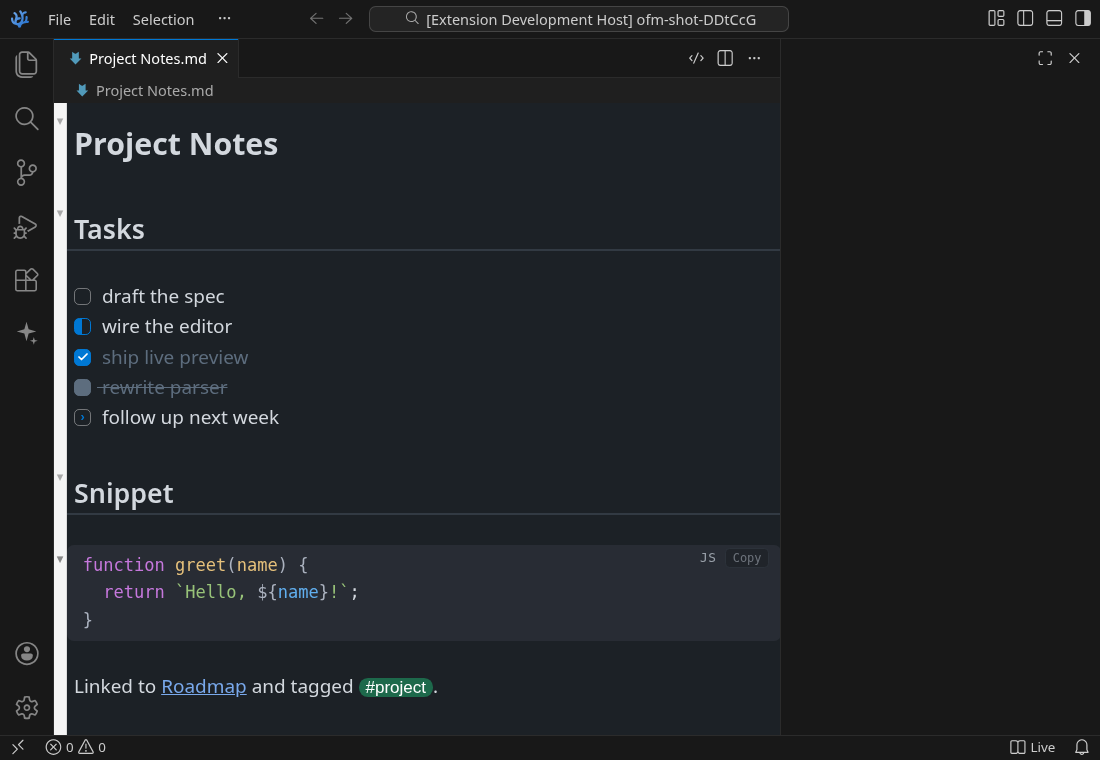
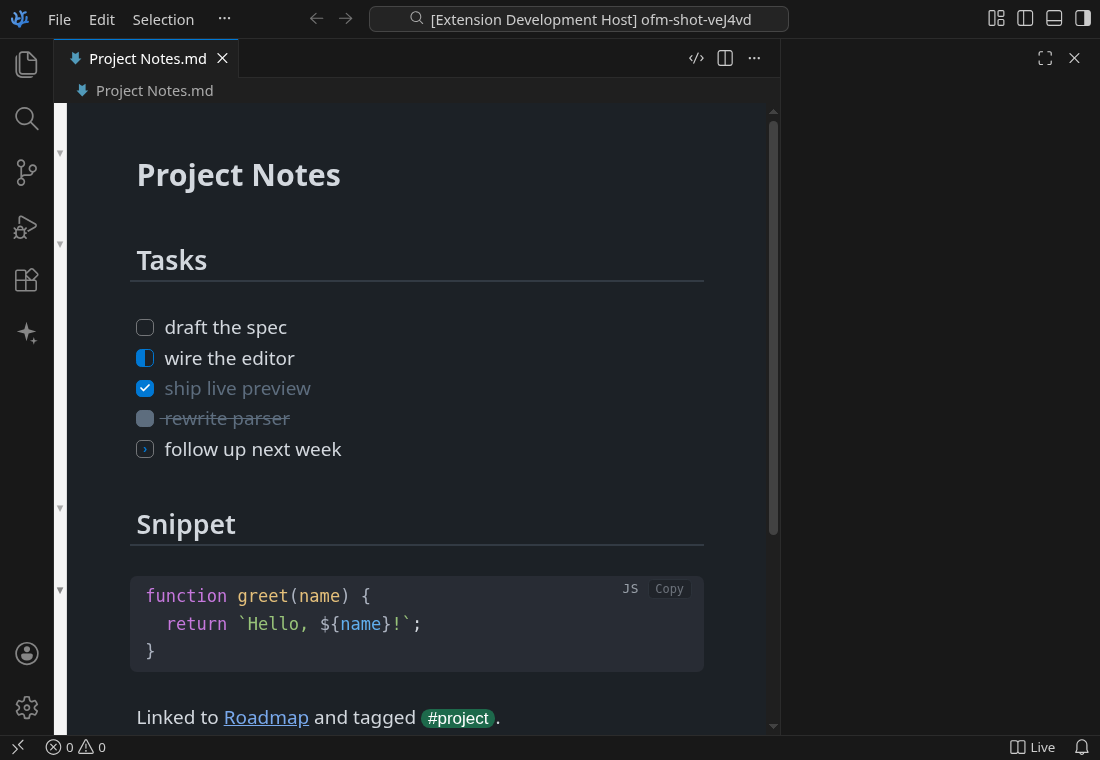
fix: move editor styling into the CM6 theme layer so the page margin applies
Root cause (not a patch): `.cm-content` padding/layout was declared in the host
webview <style>. CodeMirror 6 injects its OWN `.cm-content` base-theme rules at
runtime, at equal specificity but later in source order, so the host rule lost the
cascade and the horizontal padding was silently dropped — the preview rendered
edge-to-edge. (The old centered-column only had margins via max-width, which CM6
doesn't touch; a narrow pane therefore had none.)

Standard fix: style the editor through EditorView.theme (markdownTheme), which
outranks the base theme. Moved `.cm-content` (max-width/width/padding/box-sizing),
`.cm-scroller` (overflow/font/line-height/centering) and the editor shell height
out of the host <style> and into the theme. The host now only owns the page
container (html/body/#editor) and the dynamic --file-line-width variable.

Verification (was missing before): a new e2e test asserts the computed
`.cm-content` side padding is real (~56px), so this can't silently regress.

diff --git a/src/extension/customTextEditorProvider.ts b/src/extension/customTextEditorProvider.ts
@@ -247,32 +247,13 @@ export class OfmCustomTextEditorProvider
     #editor {
       height: 100%;
     }
-    .cm-editor {
-      height: 100%;
-      outline: none;
-    }
-    .cm-editor .cm-scroller {
-      overflow: auto;
-      font-family: var(--vscode-editor-font-family, monospace);
-      font-size: var(--vscode-editor-font-size, 14px);
-      line-height: var(--vscode-editor-line-height, 1.6);
-      /* .cm-scroller is a flex row; centering the content here gives balanced
-         left/right margins (margin:auto on .cm-content is unreliable in flex). */
-      justify-content: center;
-    }
-    /* Layout: by default the text FILLS the editor width with a comfortable,
-       FIXED side margin (native-style — the margin doesn't grow when the pane
-       widens). Setting ofm.lineWidth > 0 caps a centered readable column of that
-       many rem (Obsidian-style). --file-line-width is only set when capping;
-       otherwise max-width is none (fill). Disable centering with --ofm-align. */
-    .cm-editor .cm-scroller { justify-content: var(--ofm-align, center); }
+    /* NOTE: all .cm-* editor styling lives in the CM6 theme layer (markdownTheme,
+       via EditorView.theme) — NOT here. A host stylesheet rule for .cm-content /
+       .cm-scroller ties on specificity with CM6's own base theme but loses on
+       order (CM6 injects later), so it would be silently overridden (that bug made
+       the page read edge-to-edge). The host only owns the page container above and
+       the dynamic readable-column variable below. */
     ${lineWidthRule}
-    .cm-content {
-      max-width: var(--file-line-width, none);
-      width: 100%;
-      padding: 2rem 3.5rem 40vh;
-      box-sizing: border-box;
-    }
   </style>
   <link rel="stylesheet" href="${cssUri}">
   <meta name="ofm-nonce" content="${nonce}">

diff --git a/src/webview/view/markdownTheme.ts b/src/webview/view/markdownTheme.ts
@@ -10,6 +10,18 @@
 import { EditorView } from "@codemirror/view";
 
 export const markdownTheme = EditorView.theme({
+  /* Editor shell + scroller live here (the theme layer), not the host <style>,
+     so they reliably outrank CM6's base theme. */
+  "&": { height: "100%", outline: "none" },
+  ".cm-scroller": {
+    overflow: "auto",
+    fontFamily: "var(--vscode-editor-font-family, monospace)",
+    fontSize: "var(--vscode-editor-font-size, 14px)",
+    lineHeight: "var(--vscode-editor-line-height, 1.6)",
+    /* Flex row; centering lays out the readable column with balanced margins
+       (margin:auto on .cm-content is unreliable inside the flex scroller). */
+    justifyContent: "var(--ofm-align, center)",
+  },
   /* Body text font: follow the theme's text font (Things = system sans), with
      the VS Code UI font as fallback. Code/inline-code/frontmatter set their own
      monospace and so are unaffected.
@@ -23,6 +35,16 @@ export const markdownTheme = EditorView.theme({
     // (em) ride up with this.
     fontSize:
       "var(--ofm-font-size, calc(var(--vscode-editor-font-size, 14px) + 2px))",
+    // Page layout. This MUST live in the theme layer (not the host <style>): CM6's
+    // base theme also sets `.cm-content` padding and, injected later at equal
+    // specificity, would override a host-stylesheet rule — which is why the page
+    // looked edge-to-edge. The theme layer outranks the base theme.
+    // max-width none = fill the width with the fixed side padding below (default);
+    // --file-line-width (set when ofm.lineWidth > 0) caps a centered column.
+    maxWidth: "var(--file-line-width, none)",
+    width: "100%",
+    padding: "2rem 3.5rem 40vh",
+    boxSizing: "border-box",
   },
   /* Headings (1-6) — size & weight follow the theme (--hN-size/--hN-weight);
      colors come from the theme (--hN-color). Fallbacks preserve our look when a

diff --git a/CHANGELOG.md b/CHANGELOG.md
@@ -3,6 +3,15 @@
 All notable changes to Flintmark are documented here. Versions are pre-1.0 while
 the editor stabilizes for the Marketplace.
 
+## 0.31.1
+
+- **Fix: the page margin from 0.31.0 wasn't actually applied** — the preview still
+  read edge-to-edge. Root cause: `.cm-content` padding/layout was set in the host
+  stylesheet, where CodeMirror's own base theme (injected later at equal CSS
+  specificity) silently overrode it. All `.cm-*` editor styling now lives in the
+  CM6 theme layer (`EditorView.theme`, the standard place), which outranks the base
+  theme. An e2e test now asserts the computed side margin so it can't regress.
+
 ## 0.31.0
 
 - **Comfortable, stable page margins.** The Live Preview now fills the editor